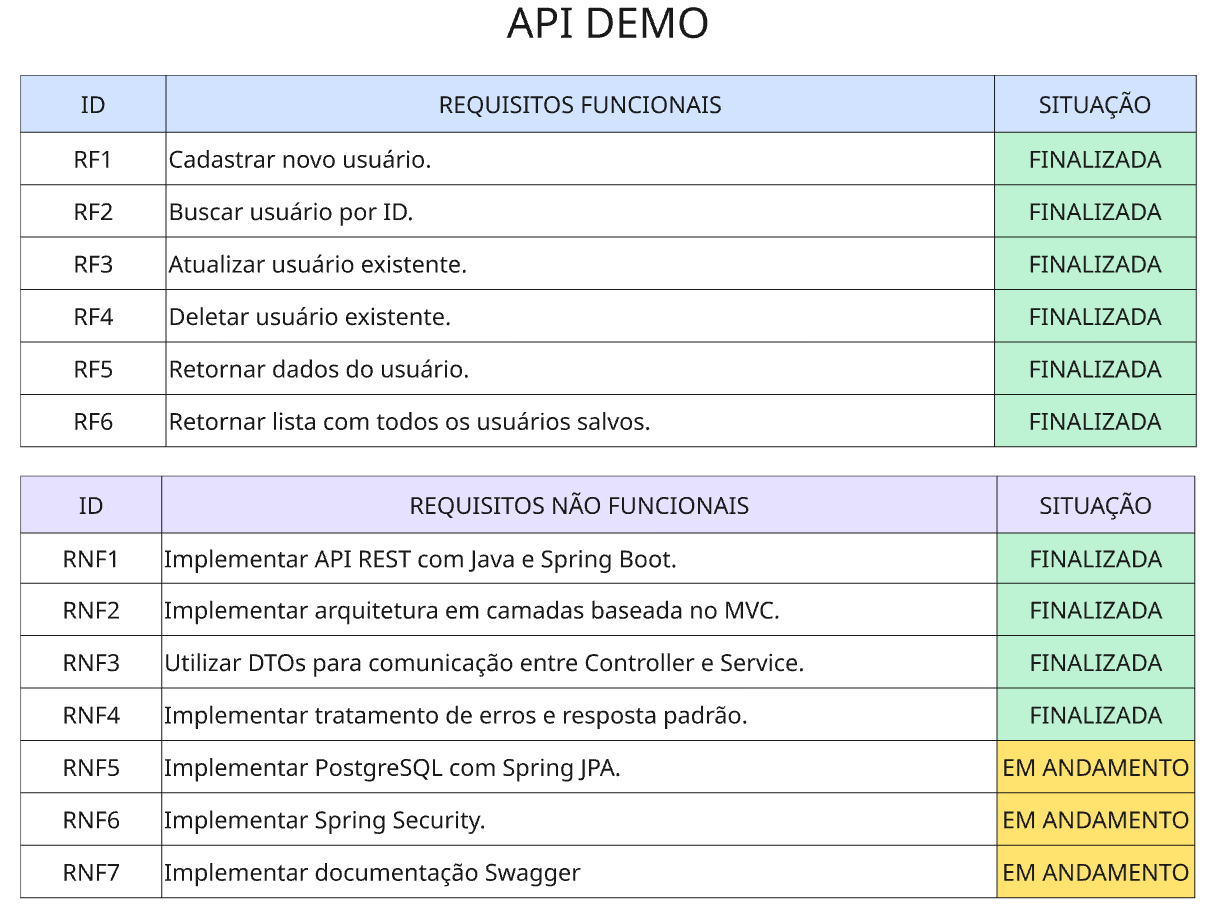
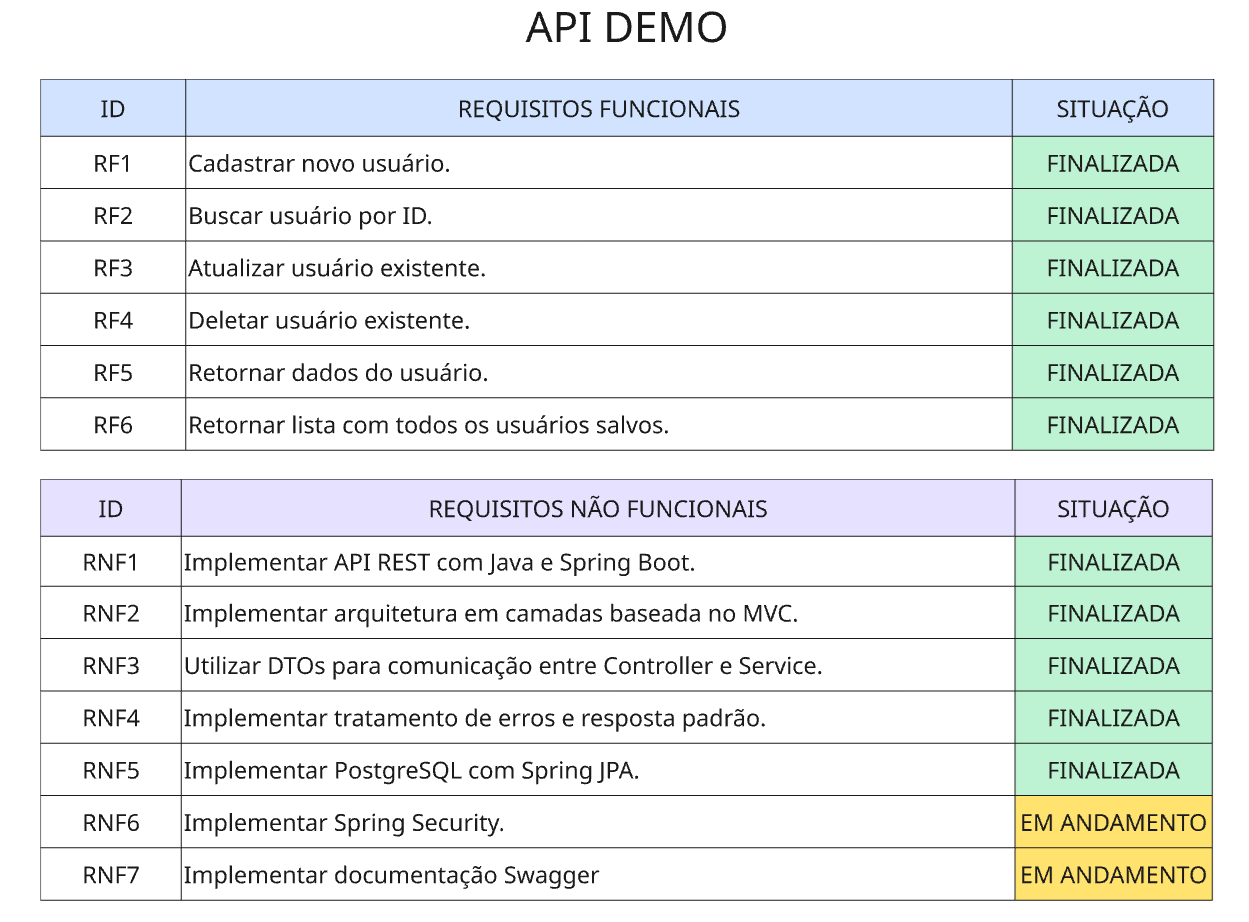
Implementação de persistência de dados com JPA, Hibernate e PostgreSQL

Changed region(s): [[0.0, 0.0, 0.9967, 1.0]]

diff --git a/demo/src/main/java/com/example/demo/service/UserService.java b/demo/src/main/java/com/example/demo/service/UserService.java
@@ -2,14 +2,15 @@ package com.example.demo.service;
 
 import java.util.List;
 
+import org.springframework.data.domain.Sort;
 import org.springframework.stereotype.Service;
 
+import com.example.demo.dto.UserRequestDTO;
+import com.example.demo.dto.UserResponseDTO;
 import com.example.demo.entity.UserEntity;
 import com.example.demo.exception.UserConflictException;
 import com.example.demo.exception.UserNotFoundException;
 import com.example.demo.mapper.UserMapper;
-import com.example.demo.model.UserRequestDTO;
-import com.example.demo.model.UserResponseDTO;
 import com.example.demo.repository.UserRepository;
 
 @Service
@@ -24,16 +25,13 @@ public class UserService {
     }
 
     public List<UserResponseDTO> getUsers(){
-        return mapper.entityListToResponseList(repository.getUsers());
+        return mapper.entityListToResponseList(repository.findAll(Sort.by("id").ascending()));
     }
 
     public UserResponseDTO getUser(String id){
         
-        UserEntity user = repository.find(id);
-
-        if(user == null){
-            throw new UserNotFoundException("User não encontrado.");
-        }
+        UserEntity user = repository.findById(id)
+            .orElseThrow(() -> new UserNotFoundException("User não encontrado."));
         
         return mapper.entityToResponse(user);
     }
@@ -42,7 +40,7 @@ public class UserService {
         
         UserEntity newUser = mapper.requestToEntity(newUserDTO);
 
-        if (repository.find(newUser.getId()) != null) {
+        if (repository.existsById(newUser.getId())) {
             throw new UserConflictException("User já existe.");
         }
         
@@ -57,27 +55,22 @@ public class UserService {
             throw new UserConflictException("O id da URL e do corpo da requisição precisam ser iguais.");
         }
 
-        UserEntity user = repository.find(updateUserDTO.getId());
-
-        if (user == null) {
-            throw new UserNotFoundException("User não encontrado.");
-        }
-
+        UserEntity user = repository.findById(id)
+            .orElseThrow(() -> new UserNotFoundException("User não encontrado."));
+        
         user.setName(updateUserDTO.getName());
         user.setAge(updateUserDTO.getAge());
+
+        repository.save(user);
         
         return mapper.entityToResponse(user);
     }
 
     public void deleteUser(String id){
         
-        UserEntity user = repository.find(id);
+        UserEntity user = repository.findById(id)
+            .orElseThrow(() -> new UserNotFoundException("User não encontrado."));
         
-        if(user != null){
-            repository.exclude(user);
-        }
-        else{
-             throw new UserNotFoundException("User não encontrado.");
-        }
+            repository.delete(user);
     } 
 }

diff --git a/demo/src/main/java/com/example/demo/repository/UserRepository.java b/demo/src/main/java/com/example/demo/repository/UserRepository.java
@@ -1,35 +1,10 @@
 package com.example.demo.repository;
 
-import java.util.ArrayList;
-import java.util.List;
-
+import org.springframework.data.jpa.repository.JpaRepository;
 import org.springframework.stereotype.Repository;
 
 import com.example.demo.entity.UserEntity;
 
 @Repository
-public class UserRepository {
-    
-    private final List<UserEntity> banco = new ArrayList<>();
-    
-    public UserEntity find(String id){
-        for (UserEntity user : banco) {
-            if (user.getId().equals(id)) {
-                return user;
-            }
-        }
-        return null;
-    }
-
-    public void save(UserEntity newUser){
-        banco.add(newUser);         
-    }
-
-    public void exclude(UserEntity user){
-        banco.remove(user);
-    }
-    
-    public List<UserEntity> getUsers(){
-       return List.copyOf(banco);
-    }
+public interface UserRepository extends JpaRepository<UserEntity, String>{
 }

diff --git a/demo/src/main/java/com/example/demo/entity/UserEntity.java b/demo/src/main/java/com/example/demo/entity/UserEntity.java
@@ -1,9 +1,26 @@
 package com.example.demo.entity;
 
+import jakarta.persistence.Column;
+import jakarta.persistence.Entity;
+import jakarta.persistence.Id;
+import jakarta.persistence.Table;
+import jakarta.validation.constraints.Max;
+import jakarta.validation.constraints.Min;
+
+@Entity
+@Table(name="users")
 public class UserEntity{
     
+    @Id
+    @Column(name="user_id", nullable=false, updatable=false, length=20)
     private String id;
+
+    @Column(name="user_name", nullable=false, length=20)
     private String name;
+    
+    @Min(1)
+    @Max(120)
+    @Column(name="user_age", nullable=false)
     private Integer age;
 
     protected UserEntity(){

diff --git a/demo/src/main/java/com/example/demo/controller/UserController.java b/demo/src/main/java/com/example/demo/controller/UserController.java
@@ -14,12 +14,11 @@ import org.springframework.web.bind.annotation.RequestBody;
 import org.springframework.web.bind.annotation.RequestMapping;
 import org.springframework.web.bind.annotation.RestController;
 
-import com.example.demo.model.UserRequestDTO;
-import com.example.demo.model.UserResponseDTO;
+import com.example.demo.dto.UserRequestDTO;
+import com.example.demo.dto.UserResponseDTO;
 import com.example.demo.service.UserService;
 
 import jakarta.validation.Valid;
-
 
 @RestController
 @RequestMapping("/api")

diff --git a/demo/src/main/java/com/example/demo/mapper/UserMapper.java b/demo/src/main/java/com/example/demo/mapper/UserMapper.java
@@ -5,9 +5,9 @@ import java.util.List;
 
 import org.springframework.stereotype.Component;
 
+import com.example.demo.dto.UserRequestDTO;
+import com.example.demo.dto.UserResponseDTO;
 import com.example.demo.entity.UserEntity;
-import com.example.demo.model.UserRequestDTO;
-import com.example.demo.model.UserResponseDTO;
 
 @Component
 public class UserMapper {
@@ -42,4 +42,3 @@ public class UserMapper {
         return  listDTO;
     }
 }
-

diff --git a/demo/src/main/java/com/example/demo/dto/UserRequestDTO.java b/demo/src/main/java/com/example/demo/dto/UserRequestDTO.java
@@ -1,4 +1,4 @@
-package com.example.demo.model;
+package com.example.demo.dto;
 
 import jakarta.validation.constraints.Max;
 import jakarta.validation.constraints.Min;

diff --git a/demo/src/main/java/com/example/demo/dto/UserResponseDTO.java b/demo/src/main/java/com/example/demo/dto/UserResponseDTO.java
@@ -1,4 +1,4 @@
-package com.example.demo.model;
+package com.example.demo.dto;
 
 public class UserResponseDTO {
     

diff --git a/README.md b/README.md
@@ -1,13 +1,16 @@
 # API DEMO
+
+<p>Estudo de API REST com operações de CRUD utilizando Java e Spring Boot.</p>
 <br>
 
 ## Apresentação
 
-<p>Olá, tudo bem?</p>
-<p>Meu nome é Patrick e eu sou um desenvolvedor back-end Java no início da carreira, 
-no momento estou estudando sobre APIs REST com operações CRUD.</p>
-<p>Em caso de qualquer dúvida, sugestão ou correções, por favor entre em contato comigo pelo LinkedIn,
-todo tipo de comentário será muito bem-vindo.</p>
+<p>Olá, tudo bem? Meu nome é Patrick e eu sou um desenvolvedor back-end Java no início da carreira.</p>
+
+<p>No momento, estou estudando APIs REST com operações CRUD e integração com banco de dados utilizando JPA.</p>
+
+<p>Em caso de qualquer dúvida, sugestão ou correção, por favor entre em contato comigo pelo LinkedIn. Todo
+ tipo de comentário será muito bem-vindo.</p>
 <br>
 
 ## Tecnologias usadas
@@ -16,31 +19,32 @@ todo tipo de comentário será muito bem-vindo.</p>
 - VS Code: 1.108.2
 - Java: 21.0.9
 - Maven: 3.9.11
-- Spring Boot: 4.0.2
+- PostgreSQL: 18.1
+- Spring Boot: 4.0.0
+- Spring JPA (Hibernate)
 - Spring Web
 - Spring MVC
+<br>
+
+## Requisitos de funcionamento
+
+<p>Para conseguir fazer uso da API é necessário que o usuário faça algumas configurações.</p>
+
+1. Criar banco PostgreSQL;
+2. Preencher os dados de configurações do banco no application-prod.properties;
+3. Definir as configurações do JPA, Hibernate e logs no application-prod.properties. 
+<br>
+
+<p>OBS.: É possível utilizar outros profiles de configuração alterando o spring.profiles.active.</p>
 <br>
 
 ## Funcionalidades
 
 - GET /api/users: Retorna lista com todos os usuários salvos.
-- GET /api/users/{id}: Retorna o usuário com id indicado.
+- GET /api/users/{id}: Retorna o usuário com ID indicado.
 - POST /api/users: Salva usuário.
 - PUT /api/users/{id}: Atualiza usuário.
 - DELETE /api/users/{id}: Deleta usuário.
-<br>
-
-## Objetivos futuros
-
-<p>Como esse projeto tem o propósito de estudos, optei por fazer sua evolução aos poucos com atualizações constantes,
-com esse tópico servindo de checklist guia para modificações futuras.</p>
-<br>
-
-- Construir Diagrama de Entidade-Relacionamento
-- Implementar Spring JPA
-- Integrar banco de dados PostgreSQL
-- Implementar Spring Security
-- Implementar Swagger
 <br>
 
 ## Documentação
@@ -57,10 +61,29 @@ com esse tópico servindo de checklist guia para modificações futuras.</p>
 ![diagrama de camadas](documents/camadas.png)
 <br>
 
+## Objetivos futuros
+
+<p>Como esse projeto tem o propósito de estudos, optei por fazer sua evolução aos poucos com atualizações constantes, 
+com esse tópico servindo como um checklist guia para modificações futuras.</p>
+
+- Implementar Spring JPA ✅
+- Integrar banco de dados PostgreSQL ✅
+- Implementar Spring Security
+- Implementar Swagger
+<br>
+
 ## Dados do projeto
 
 - Autor: Patrick Silva
-- Versão: 1.0
-- Última atualização: 29/01/2026
+- Versão: 1.1
+- Última atualização: 02/02/2026
 - Contato: www.linkedin.com/in/patrick-rocha-149244289
+<br>
+
+## Notas de atualização - versão 1.1
+- Mudança dos DTOs do pacote model para o pacote dto.
+- Implementação do Spring JPA com o banco PostgreSQL.
+- Armazenamento de dados sensíveis em arquivo de configurações local.
+- Alterações no README.
+<br>
  
